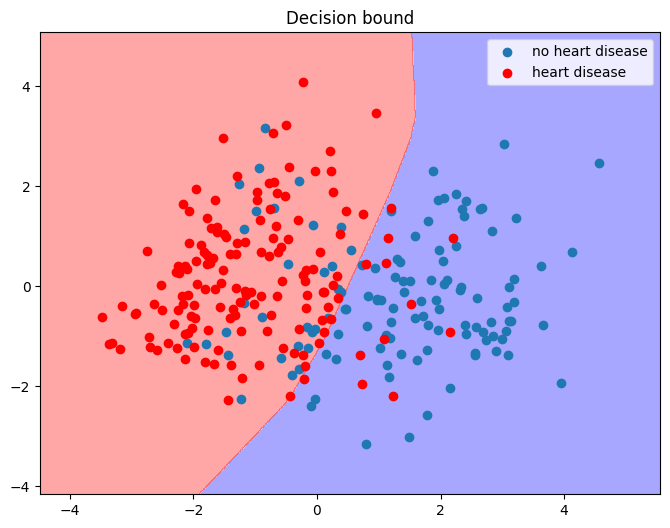
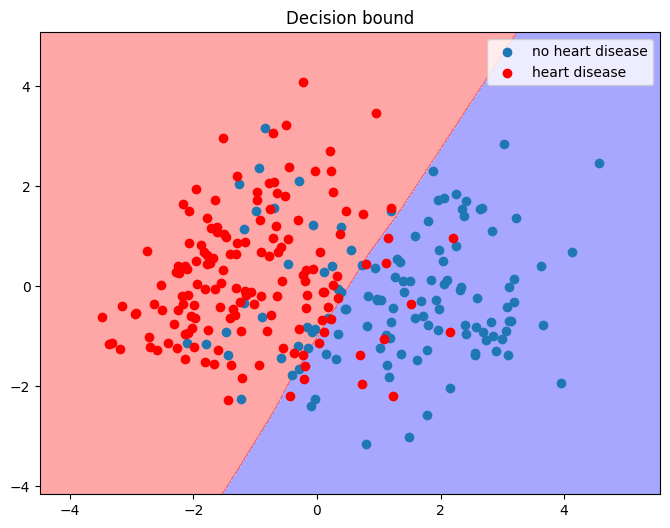
define networks with a custom function

diff --git a/main.py b/main.py
@@ -1,3 +1,4 @@
+from asyncio.constants import ACCEPT_RETRY_DELAY
 import numpy as np
 from sklearn.preprocessing import StandardScaler
 
@@ -8,6 +9,18 @@ from preprocessing.load_data import load_data
 from preprocessing.dim_red import dim_reduction
 from preprocessing.stratify import stratify_sampling
 
+
+def define_network(width, depth, actf, actf_grad):
+    # Defines a dense network with certain width and depth
+    net = Network()
+    net.add(DenseLayer(2, width))
+    net.add(ActivationLayer(actf, actf_grad))
+    for i in range(1, depth):
+        net.add(DenseLayer(width, width))
+        net.add(ActivationLayer(actf, actf_grad))
+    net.add(DenseLayer(width, 1))
+    net.add(ActivationLayer(sigmoid, sigmoid_grad))
+    return net
 
 def main():
     # Importing dataset
@@ -24,17 +37,7 @@ def main():
     X_train, X_test, y_train, y_test = stratify_sampling(np.c_[X_dim, y])
 
     # Building the Network
-    net = Network()
-    net.add(DenseLayer(2, 10))
-    net.add(ActivationLayer(relu, relu_grad))
-    net.add(DenseLayer(10, 10))
-    net.add(ActivationLayer(relu, relu_grad))
-    net.add(DenseLayer(10, 5))
-    net.add(ActivationLayer(relu, relu_grad))
-    net.add(DenseLayer(5, 5))
-    net.add(ActivationLayer(relu, relu_grad))
-    net.add(DenseLayer(5, 1))
-    net.add(ActivationLayer(sigmoid, sigmoid_grad))
+    net = define_network(width=10, depth=3, actf=relu, actf_grad=relu_grad)
 
     # Fitting the Network
     net.use(bce, bce_grad)
